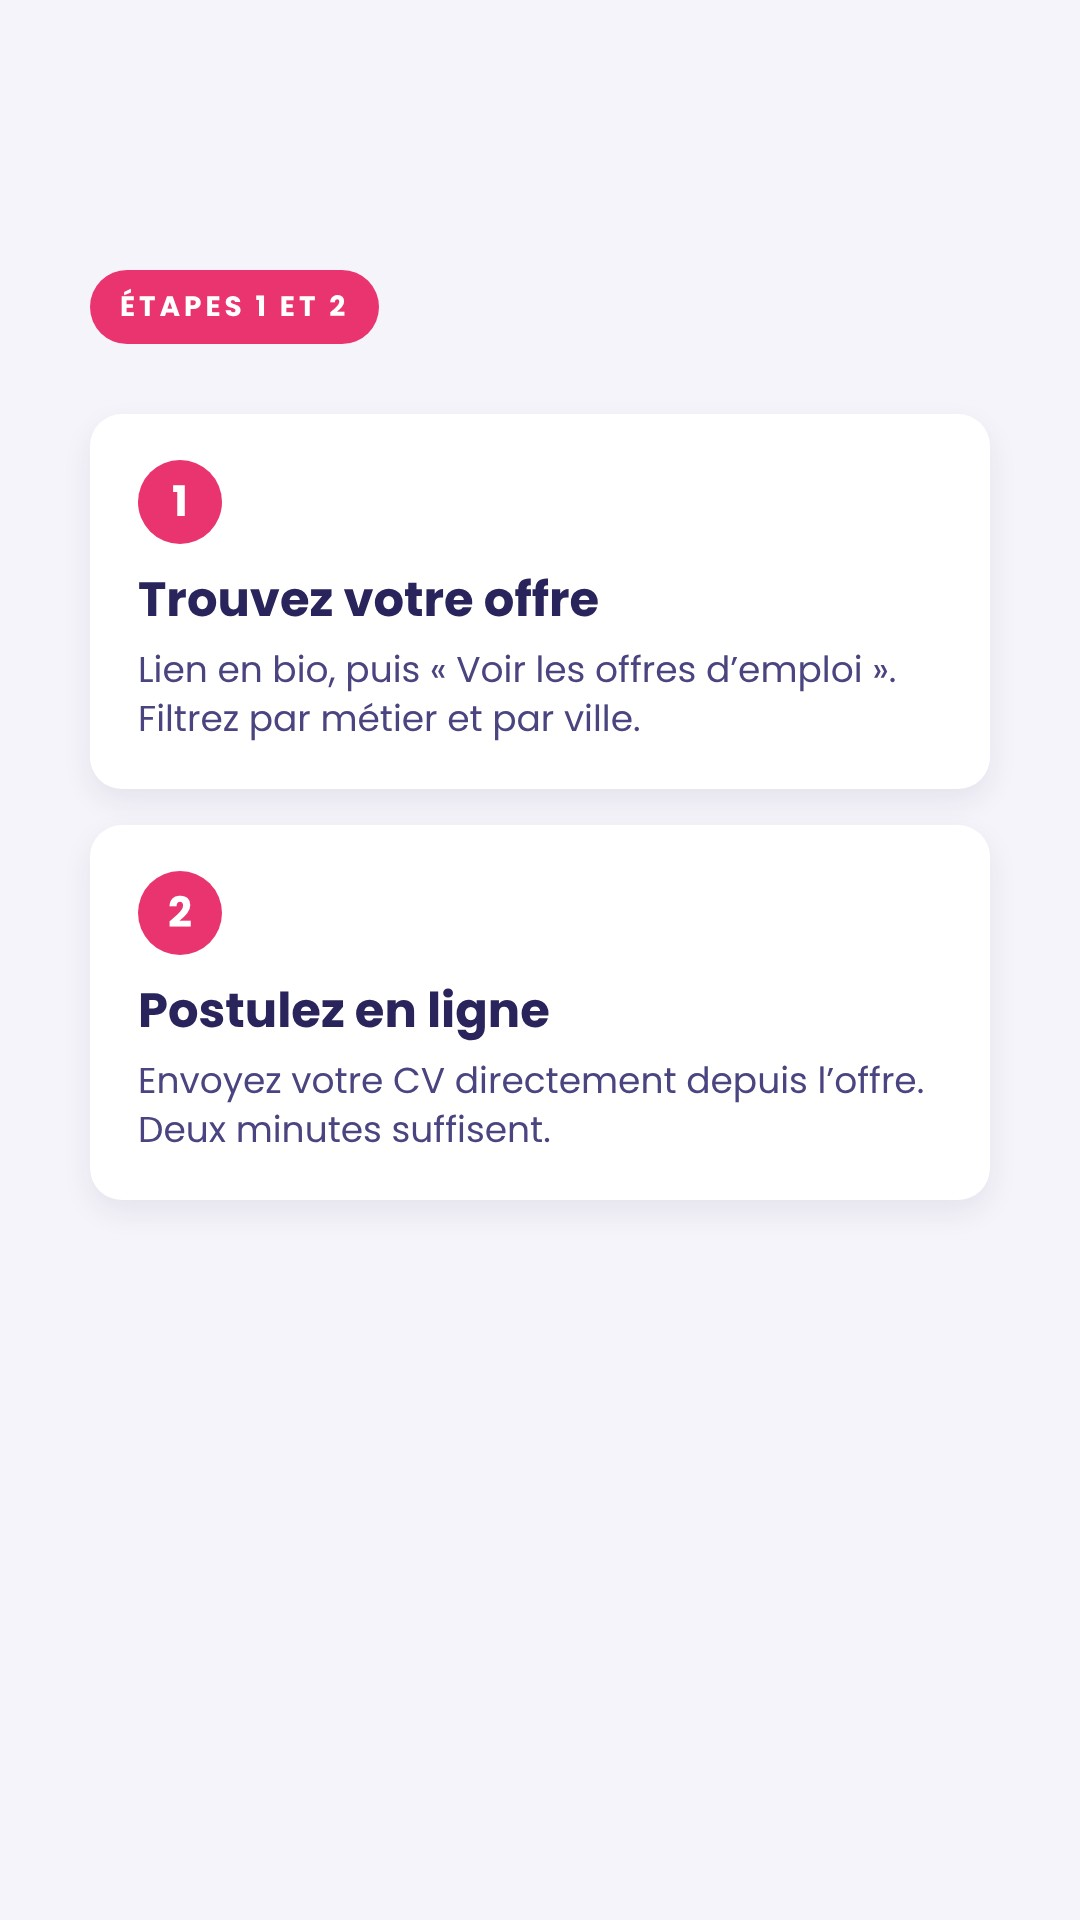
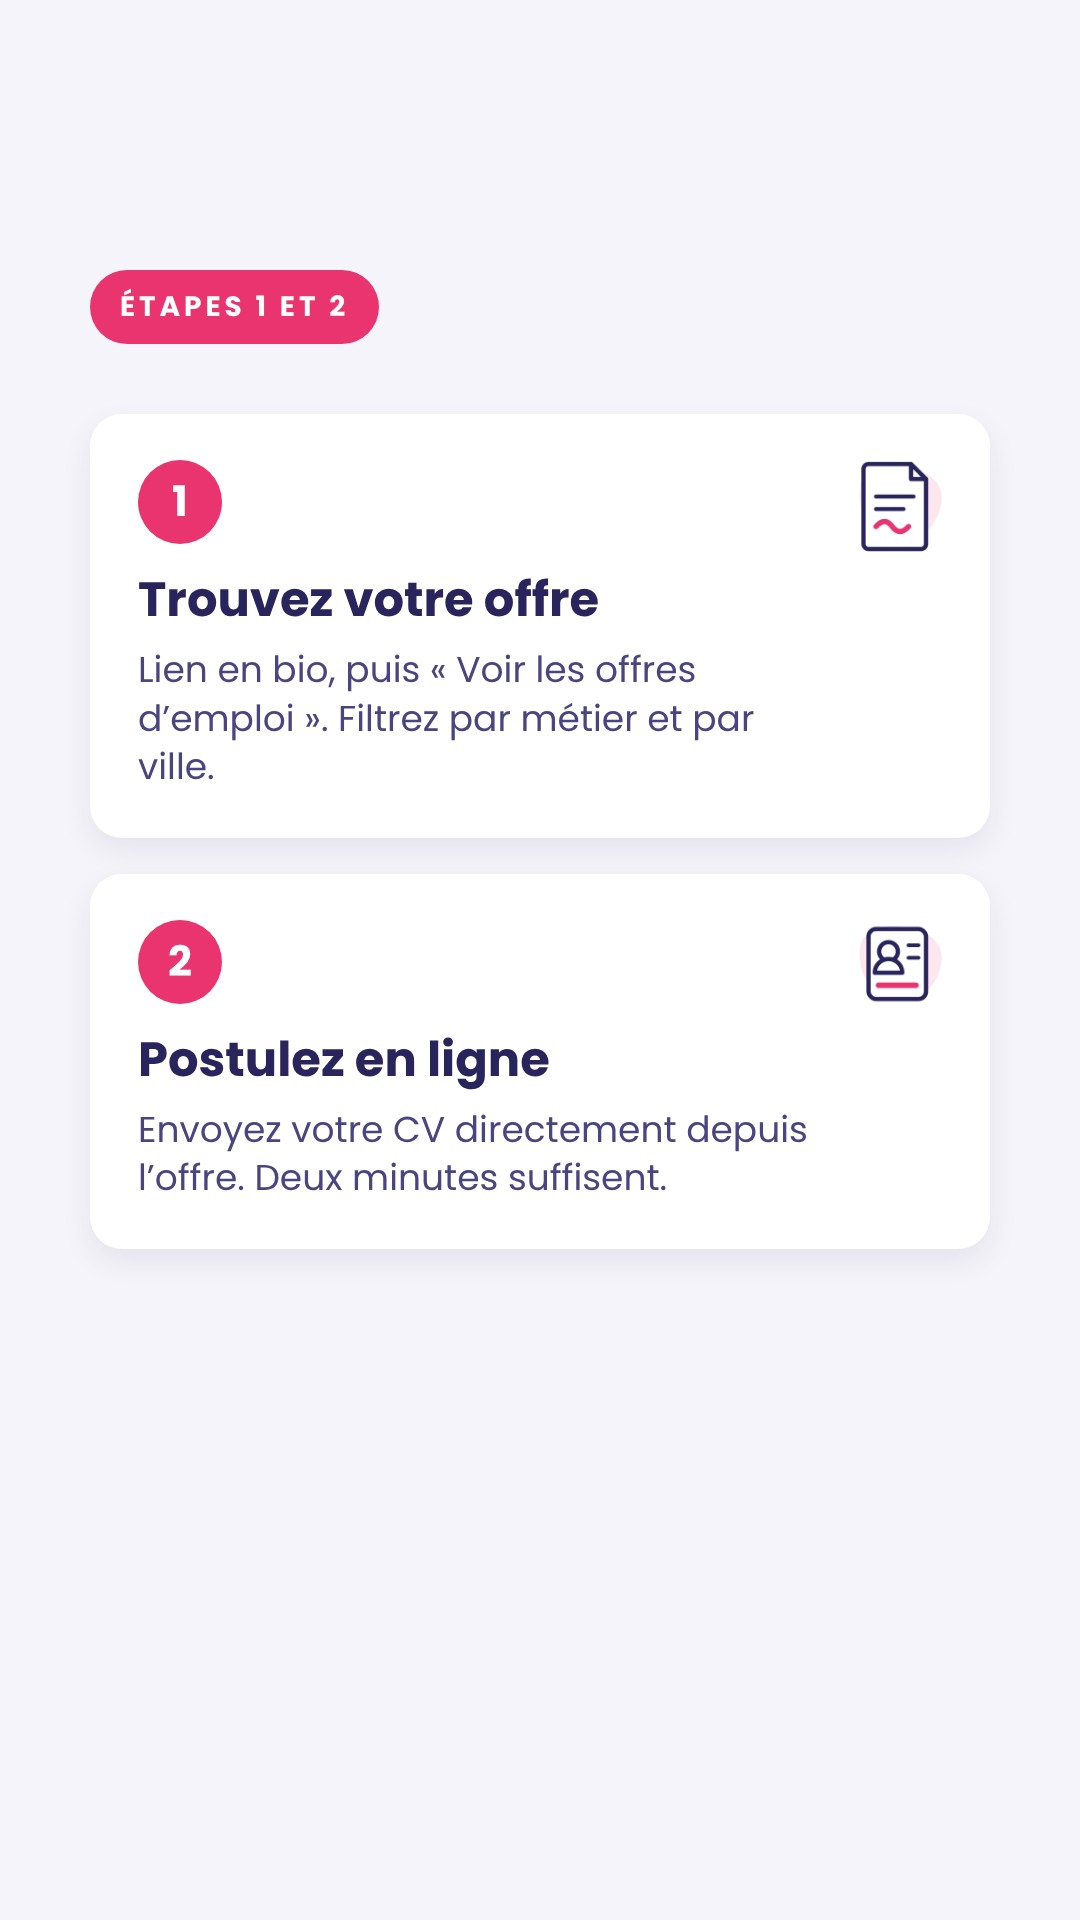
Stories : couvertures avec les pictos du site
Claude-Session: https://claude.ai/code/session_01NBGakcBRwoq7RKRswmKrSM

diff --git a/tools/visuels/stories/qui-2.html b/tools/visuels/stories/qui-2.html
@@ -1,1 +1,1 @@
-<html><head><meta charset=utf-8><link rel=stylesheet href=base.css><link rel=stylesheet href=st.css></head><body><div class="s"><div class="safe"><span class="tag">Ce qu’on fait</span><h2>On vous accompagne du CV au premier jour</h2><div class="stack"><div class="card"><b>On trouve votre employeur</b><span>Des postes au Québec, en hôtellerie, santé, industrie, construction et technologie.</span></div><div class="card"><b>On monte votre permis</b><span>Nos équipes préparent votre dossier de permis de travail.</span></div><div class="card"><b>On prépare votre arrivée</b><span>Logement, démarches sur place, premiers mois : on reste joignables.</span></div></div></div></div></body></html>
+<html><head><meta charset=utf-8><link rel=stylesheet href=base.css><link rel=stylesheet href=st.css></head><body><div class="s"><div class="safe"><span class="tag">Ce qu’on fait</span><h2>On vous accompagne du CV au premier jour</h2><div class="stack"><div class="card"><img class="pic" src="p-le-poste-6-1.webp"><b>On trouve votre employeur</b><span>Des postes au Québec, en hôtellerie, santé, industrie, construction et technologie.</span></div><div class="card"><img class="pic" src="p-dossier-immigration-8-1.webp"><b>On monte votre permis</b><span>Nos équipes préparent votre dossier de permis de travail.</span></div><div class="card"><img class="pic" src="p-logement-installation-4-1.webp"><b>On prépare votre arrivée</b><span>Logement, démarches sur place, premiers mois : on reste joignables.</span></div></div></div></div></body></html>

diff --git a/tools/visuels/stories/post-3.html b/tools/visuels/stories/post-3.html
@@ -1,1 +1,1 @@
-<html><head><meta charset=utf-8><link rel=stylesheet href=base.css><link rel=stylesheet href=st.css></head><body><div class="s"><div class="safe"><span class="tag">Étapes 3 et 4</span><div class="stack" style="margin-top:70px"><div class="card"><span class="num">3</span><b>On vous rappelle</b><span>Une recruteuse échange avec vous sur votre projet, puis vous rencontrez l’employeur.</span></div><div class="card"><span class="num">4</span><b>Contrat, permis, départ</b><span>Contrat signé avant le départ. Nos équipes s’occupent du permis de travail et de votre installation.</span></div></div></div></div></body></html>
+<html><head><meta charset=utf-8><link rel=stylesheet href=base.css><link rel=stylesheet href=st.css></head><body><div class="s"><div class="safe"><span class="tag">Étapes 3 et 4</span><div class="stack" style="margin-top:70px"><div class="card"><span class="num">3</span><img class="pic" src="p-entretien-visio-3-1.webp"><b>On vous rappelle</b><span>Une recruteuse échange avec vous sur votre projet, puis vous rencontrez l’employeur.</span></div><div class="card"><span class="num">4</span><img class="pic" src="p-contrat-signe-6-1.webp"><b>Contrat, permis, départ</b><span>Contrat signé avant le départ. Nos équipes s’occupent du permis de travail et de votre installation.</span></div></div></div></div></body></html>

diff --git a/tools/visuels/stories/post-2.html b/tools/visuels/stories/post-2.html
@@ -1,1 +1,1 @@
-<html><head><meta charset=utf-8><link rel=stylesheet href=base.css><link rel=stylesheet href=st.css></head><body><div class="s"><div class="safe"><span class="tag">Étapes 1 et 2</span><div class="stack" style="margin-top:70px"><div class="card"><span class="num">1</span><b>Trouvez votre offre</b><span>Lien en bio, puis « Voir les offres d’emploi ». Filtrez par métier et par ville.</span></div><div class="card"><span class="num">2</span><b>Postulez en ligne</b><span>Envoyez votre CV directement depuis l’offre. Deux minutes suffisent.</span></div></div></div></div></body></html>
+<html><head><meta charset=utf-8><link rel=stylesheet href=base.css><link rel=stylesheet href=st.css></head><body><div class="s"><div class="safe"><span class="tag">Étapes 1 et 2</span><div class="stack" style="margin-top:70px"><div class="card"><span class="num">1</span><img class="pic" src="p-offre-emploi-4-1.webp"><b>Trouvez votre offre</b><span>Lien en bio, puis « Voir les offres d’emploi ». Filtrez par métier et par ville.</span></div><div class="card"><span class="num">2</span><img class="pic" src="p-candidat-profil-2-1.webp"><b>Postulez en ligne</b><span>Envoyez votre CV directement depuis l’offre. Deux minutes suffisent.</span></div></div></div></div></body></html>

diff --git a/tools/visuels/stories/cover-qui.html b/tools/visuels/stories/cover-qui.html
@@ -1,1 +1,1 @@
-<html><head><link rel=stylesheet href=base.css></head><body><div style="width:1080px;height:1920px;background:#ea346f;display:grid;place-items:center"><div style="width:520px;height:520px;border-radius:50%;background:#29245c;display:grid;place-items:center"><svg width="260" height="260" viewBox="0 0 24 24" fill="none" stroke="#fff" stroke-width="1.8" stroke-linecap="round" stroke-linejoin="round"><circle cx="9" cy="8" r="3.2"/><path d="M3 20c0-3.3 2.7-6 6-6s6 2.7 6 6"/><circle cx="17" cy="9" r="2.5"/><path d="M15.5 14.2c3 .2 5.5 2.6 5.5 5.8"/></svg></div></div></body></html>
+<html><head><link rel=stylesheet href=base.css></head><body><div style="width:1080px;height:1920px;background:#f5f4fa;display:grid;place-items:center"><div style="width:640px;height:640px;border-radius:50%;background:#fff;display:grid;place-items:center;box-shadow:0 20px 50px rgba(41,36,92,.08)"><img src="p-charge-de-projet-1.webp" style="width:430px"></div></div></body></html>

diff --git a/tools/visuels/stories/cover-postuler.html b/tools/visuels/stories/cover-postuler.html
@@ -1,1 +1,1 @@
-<html><head><link rel=stylesheet href=base.css></head><body><div style="width:1080px;height:1920px;background:#ea346f;display:grid;place-items:center"><div style="width:520px;height:520px;border-radius:50%;background:#29245c;display:grid;place-items:center"><svg width="250" height="250" viewBox="0 0 24 24" fill="none" stroke="#fff" stroke-width="1.8" stroke-linecap="round" stroke-linejoin="round"><path d="M22 2L11 13"/><path d="M22 2l-7 20-4-9-9-4 20-7z"/></svg></div></div></body></html>
+<html><head><link rel=stylesheet href=base.css></head><body><div style="width:1080px;height:1920px;background:#f5f4fa;display:grid;place-items:center"><div style="width:640px;height:640px;border-radius:50%;background:#fff;display:grid;place-items:center;box-shadow:0 20px 50px rgba(41,36,92,.08)"><img src="p-candidat-profil-2-1.webp" style="width:430px"></div></div></body></html>

diff --git a/tools/visuels/stories/r.js b/tools/visuels/stories/r.js
@@ -1,4 +1,4 @@
 const { chromium } = require('playwright');const fs=require('fs');
 (async()=>{const b=await chromium.launch();const p=await b.newPage({viewport:{width:1080,height:1920}});
-for(const f of ['qui-1','qui-2','qui-3','qui-4','post-1','post-2','post-3','post-4','cover-qui','cover-postuler']){await p.goto('file://'+__dirname+'/'+f+'.html');await p.waitForTimeout(250);await p.screenshot({path:'out-'+f+'.jpg',type:'jpeg',quality:90});}
+for(const f of ['qui-1','qui-2','qui-3','qui-4','post-1','post-2','post-3','post-4','cover-qui','cover-postuler','cover-offres','cover-permis','cover-installation','cover-confiance']){await p.goto('file://'+__dirname+'/'+f+'.html');await p.waitForTimeout(250);await p.screenshot({path:'out-'+f+'.jpg',type:'jpeg',quality:90});}
 await b.close()})();

diff --git a/tools/visuels/stories/st.css b/tools/visuels/stories/st.css
@@ -21,3 +21,6 @@ h2{font-size:80px;line-height:1.06;color:#29245c;margin-top:36px}
 .card{padding:46px 48px}.card b{font-size:48px}.card span{font-size:36px}
 .stack{gap:36px}
 .team{gap:56px 30px;margin-top:80px}.team img{width:170px;height:170px}.team b{font-size:40px}.team span{font-size:28px}
+.card{position:relative}
+.card .pic{position:absolute;right:34px;top:30px;width:120px}
+.card b,.card span:not(.num){padding-right:130px}

diff --git a/tools/visuels/stories/cover-installation.html b/tools/visuels/stories/cover-installation.html
@@ -1,0 +1,1 @@
+<html><head><link rel=stylesheet href=base.css></head><body><div style="width:1080px;height:1920px;background:#f5f4fa;display:grid;place-items:center"><div style="width:640px;height:640px;border-radius:50%;background:#fff;display:grid;place-items:center;box-shadow:0 20px 50px rgba(41,36,92,.08)"><img src="p-logement-installation-4-1.webp" style="width:430px"></div></div></body></html>

diff --git a/tools/visuels/stories/cover-permis.html b/tools/visuels/stories/cover-permis.html
@@ -1,0 +1,1 @@
+<html><head><link rel=stylesheet href=base.css></head><body><div style="width:1080px;height:1920px;background:#f5f4fa;display:grid;place-items:center"><div style="width:640px;height:640px;border-radius:50%;background:#fff;display:grid;place-items:center;box-shadow:0 20px 50px rgba(41,36,92,.08)"><img src="p-dossier-immigration-8-1.webp" style="width:430px"></div></div></body></html>

diff --git a/tools/visuels/stories/cover-confiance.html b/tools/visuels/stories/cover-confiance.html
@@ -1,0 +1,1 @@
+<html><head><link rel=stylesheet href=base.css></head><body><div style="width:1080px;height:1920px;background:#f5f4fa;display:grid;place-items:center"><div style="width:640px;height:640px;border-radius:50%;background:#fff;display:grid;place-items:center;box-shadow:0 20px 50px rgba(41,36,92,.08)"><img src="p-agence-certifiee-6-1.webp" style="width:430px"></div></div></body></html>

diff --git a/tools/visuels/stories/cover-offres.html b/tools/visuels/stories/cover-offres.html
@@ -1,0 +1,1 @@
+<html><head><link rel=stylesheet href=base.css></head><body><div style="width:1080px;height:1920px;background:#f5f4fa;display:grid;place-items:center"><div style="width:640px;height:640px;border-radius:50%;background:#fff;display:grid;place-items:center;box-shadow:0 20px 50px rgba(41,36,92,.08)"><img src="p-le-poste-6-1.webp" style="width:430px"></div></div></body></html>
